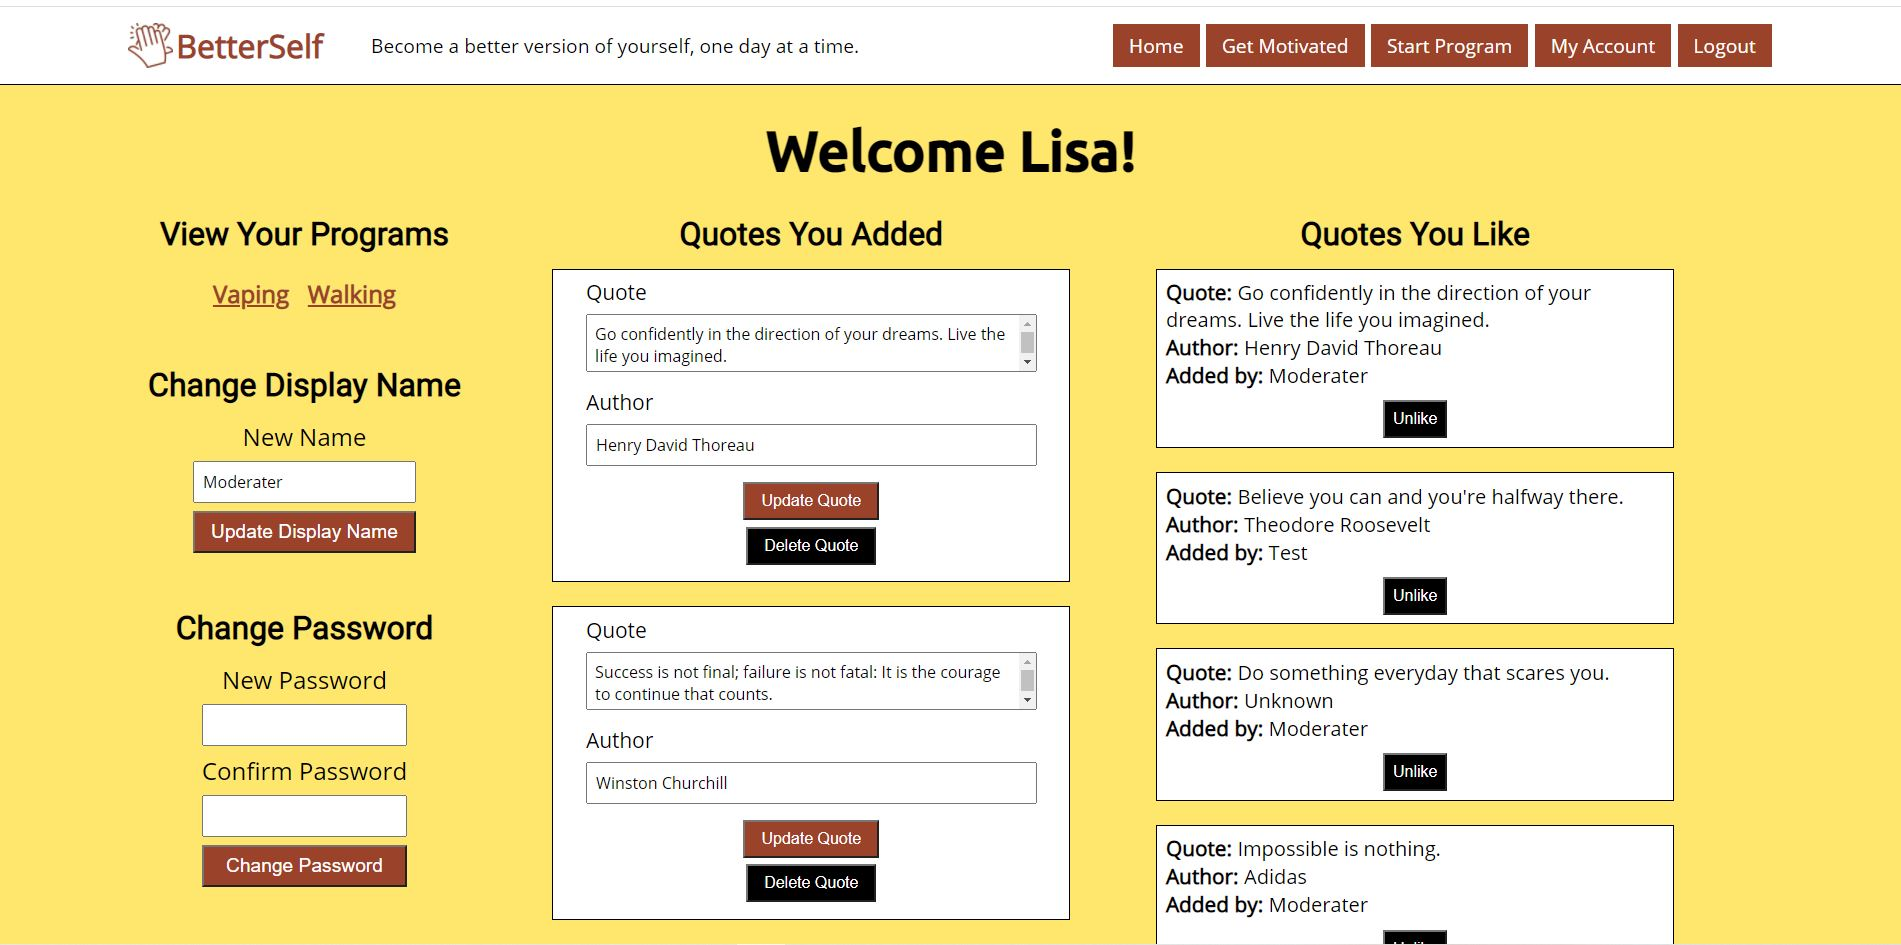
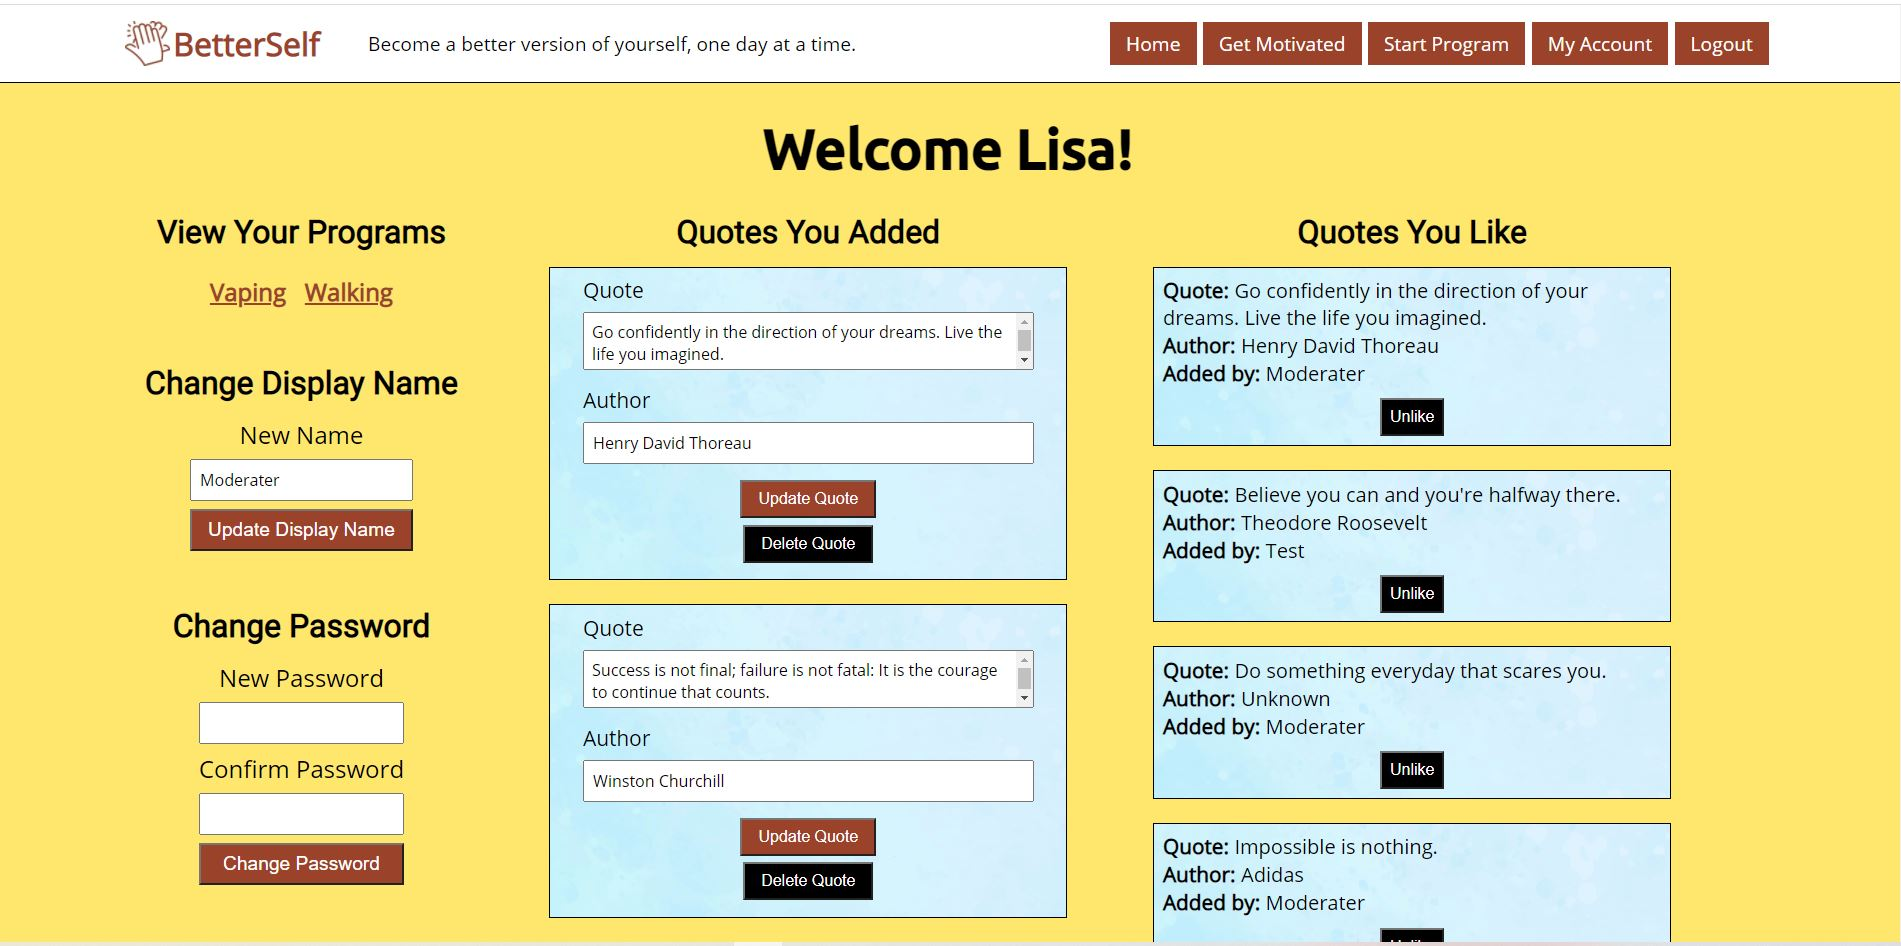
Updated quote background on account page

diff --git a/better_self_app/static/css/account.css b/better_self_app/static/css/account.css
@@ -82,7 +82,9 @@ textarea{
 
 #one_uploaded_quote{
     border:.1rem solid black;
-    background-color: white;
+    background-image: url("/../static/img/quotes_background.jpg");
+    background-size: cover;
+    background-position-x: 10%;
     padding:.5rem 2rem;
     margin-bottom:1.5rem;
 }
@@ -123,7 +125,9 @@ span{
     border:.1rem solid black;
     margin-bottom:1.5rem;
     padding:.5rem;
-    background-color: white;
+    background-image: url("/../static/img/quotes_background.jpg");
+    background-size: cover;
+    background-position-x: 10%;
 }
 
 #one_liked_quote button{
